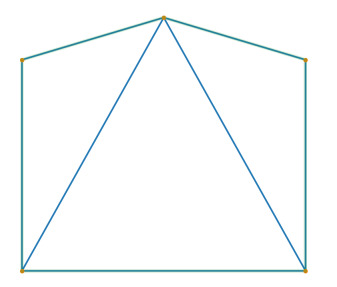
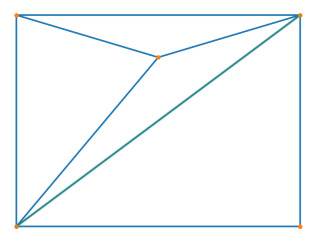
Change images

diff --git a/README.md b/README.md
@@ -23,7 +23,7 @@ import matplotlib.pyplot as plt
 from cdtriang import triangulate
 
 np.random.seed(42)
-vertices = np.array([[0,0],[1,0],[1,1],[1.2,.5], [0,1]])
+vertices = np.array([[0,0],[1,0],[1,1],[0.8,.5], [0,1]])
 
 tri = triangulate(vertices)
 
@@ -42,8 +42,8 @@ plt.legend()
 from cdtriang import triangulate_constrained
 
 np.random.seed(42)
-vertices = np.array([[0,0],[0,1],[1,1],[1.2,.5], [1,0]])
-edges = np.array([[0,1],[1,2],[2,3],[3,4], [4,0]])
+vertices = np.array([[0,0],[0,1],[1,1],[.8,.5], [1,0]])
+edges = np.array([[0,2]])
 
 tri = triangulate_constrained(vertices, edges)
 
